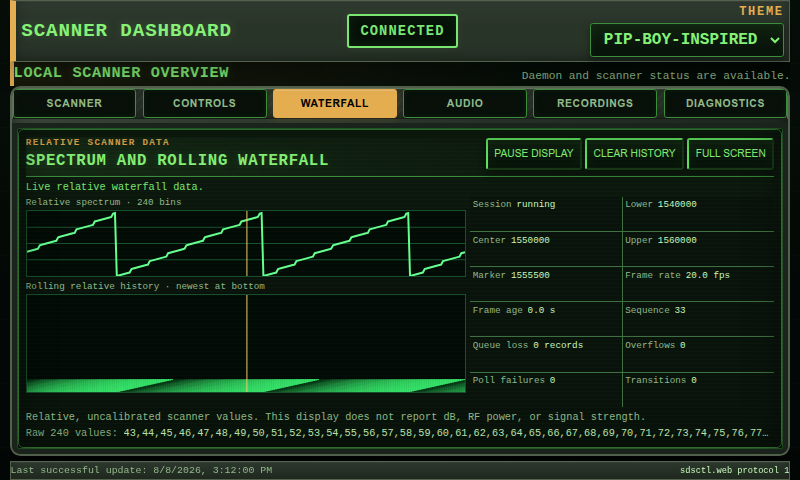
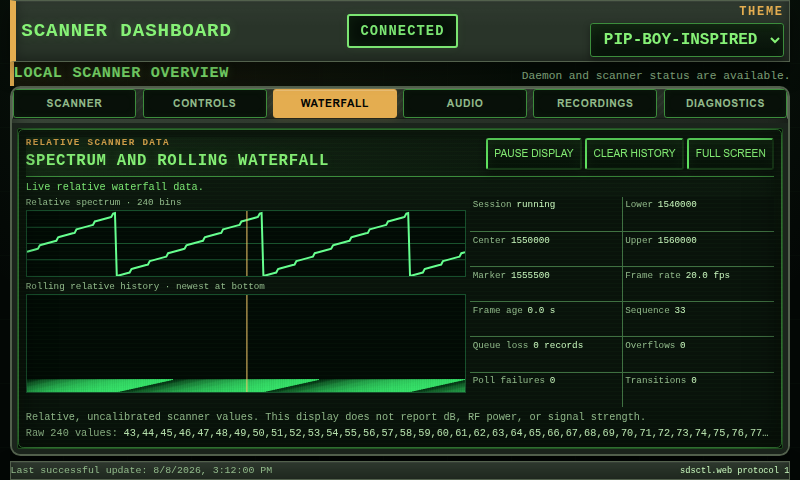
Harden waterfall screenshot repeatability

diff --git a/tests/test_audit_web_dashboard_browser.py b/tests/test_audit_web_dashboard_browser.py
@@ -172,6 +172,7 @@ def test_internal_capture_bridge_documents_and_enforces_exact_cdp_viewports() ->
         "outerHTML !== finalOuterHTML",
         "screenshotAttempts: screenshot.attempts",
         "waterfallCanvas",
+        'style.transform = "translateZ(0)"',
     ):
         assert contract in audit_source
     assert audit_source.index(

diff --git a/CHANGELOG.md b/CHANGELOG.md
@@ -74,14 +74,17 @@ to follow [Semantic Versioning](https://semver.org/) as the public API matures.
   transport in one inert-open state, verifies an unchanged visible status
   message, pins canonical documentation media preferences, requires stable
   Waterfall Canvas pixels and consecutive compositor frames, and
-  deterministically re-encodes validated Chrome pixels. The authoritative
-  gallery now provides the same Full HD, desktop, compact/Raspberry Pi, and DPR2
-  phone review set for all six themes plus two Waterfall references, so all 26
-  files can expose responsive layout and formatting regressions without
-  cross-process PNG encoding creating false failures or weakening browser
-  event-stream coverage. The first complete phone review exposed long theme
-  names competing with the brand and status; phone-width headers now use one
-  compact brand row above a shared connection-status and theme-selector row,
+  deterministically re-encodes validated Chrome pixels. Waterfall captures also
+  assign the rounded workspace a visually inert, capture-only local paint layer
+  so fractional edge tiles remain byte-repeatable across isolated Chrome
+  profiles. The authoritative gallery now provides the same Full HD, desktop,
+  compact/Raspberry Pi, and DPR2 phone review set for all six themes plus two
+  Waterfall references, so all 26 files can expose responsive layout and
+  formatting regressions without cross-process PNG encoding creating false
+  failures or weakening browser event-stream coverage. The first complete phone
+  review exposed long theme names competing with the brand and status;
+  phone-width headers now use one compact brand row above a shared connection
+  status and theme-selector row,
   with the supporting subtitle and visible selector label removed only from
   that narrow presentation. Every built-in label remains complete while more
   height is returned to the working pane and desktop and compact geometry stay
